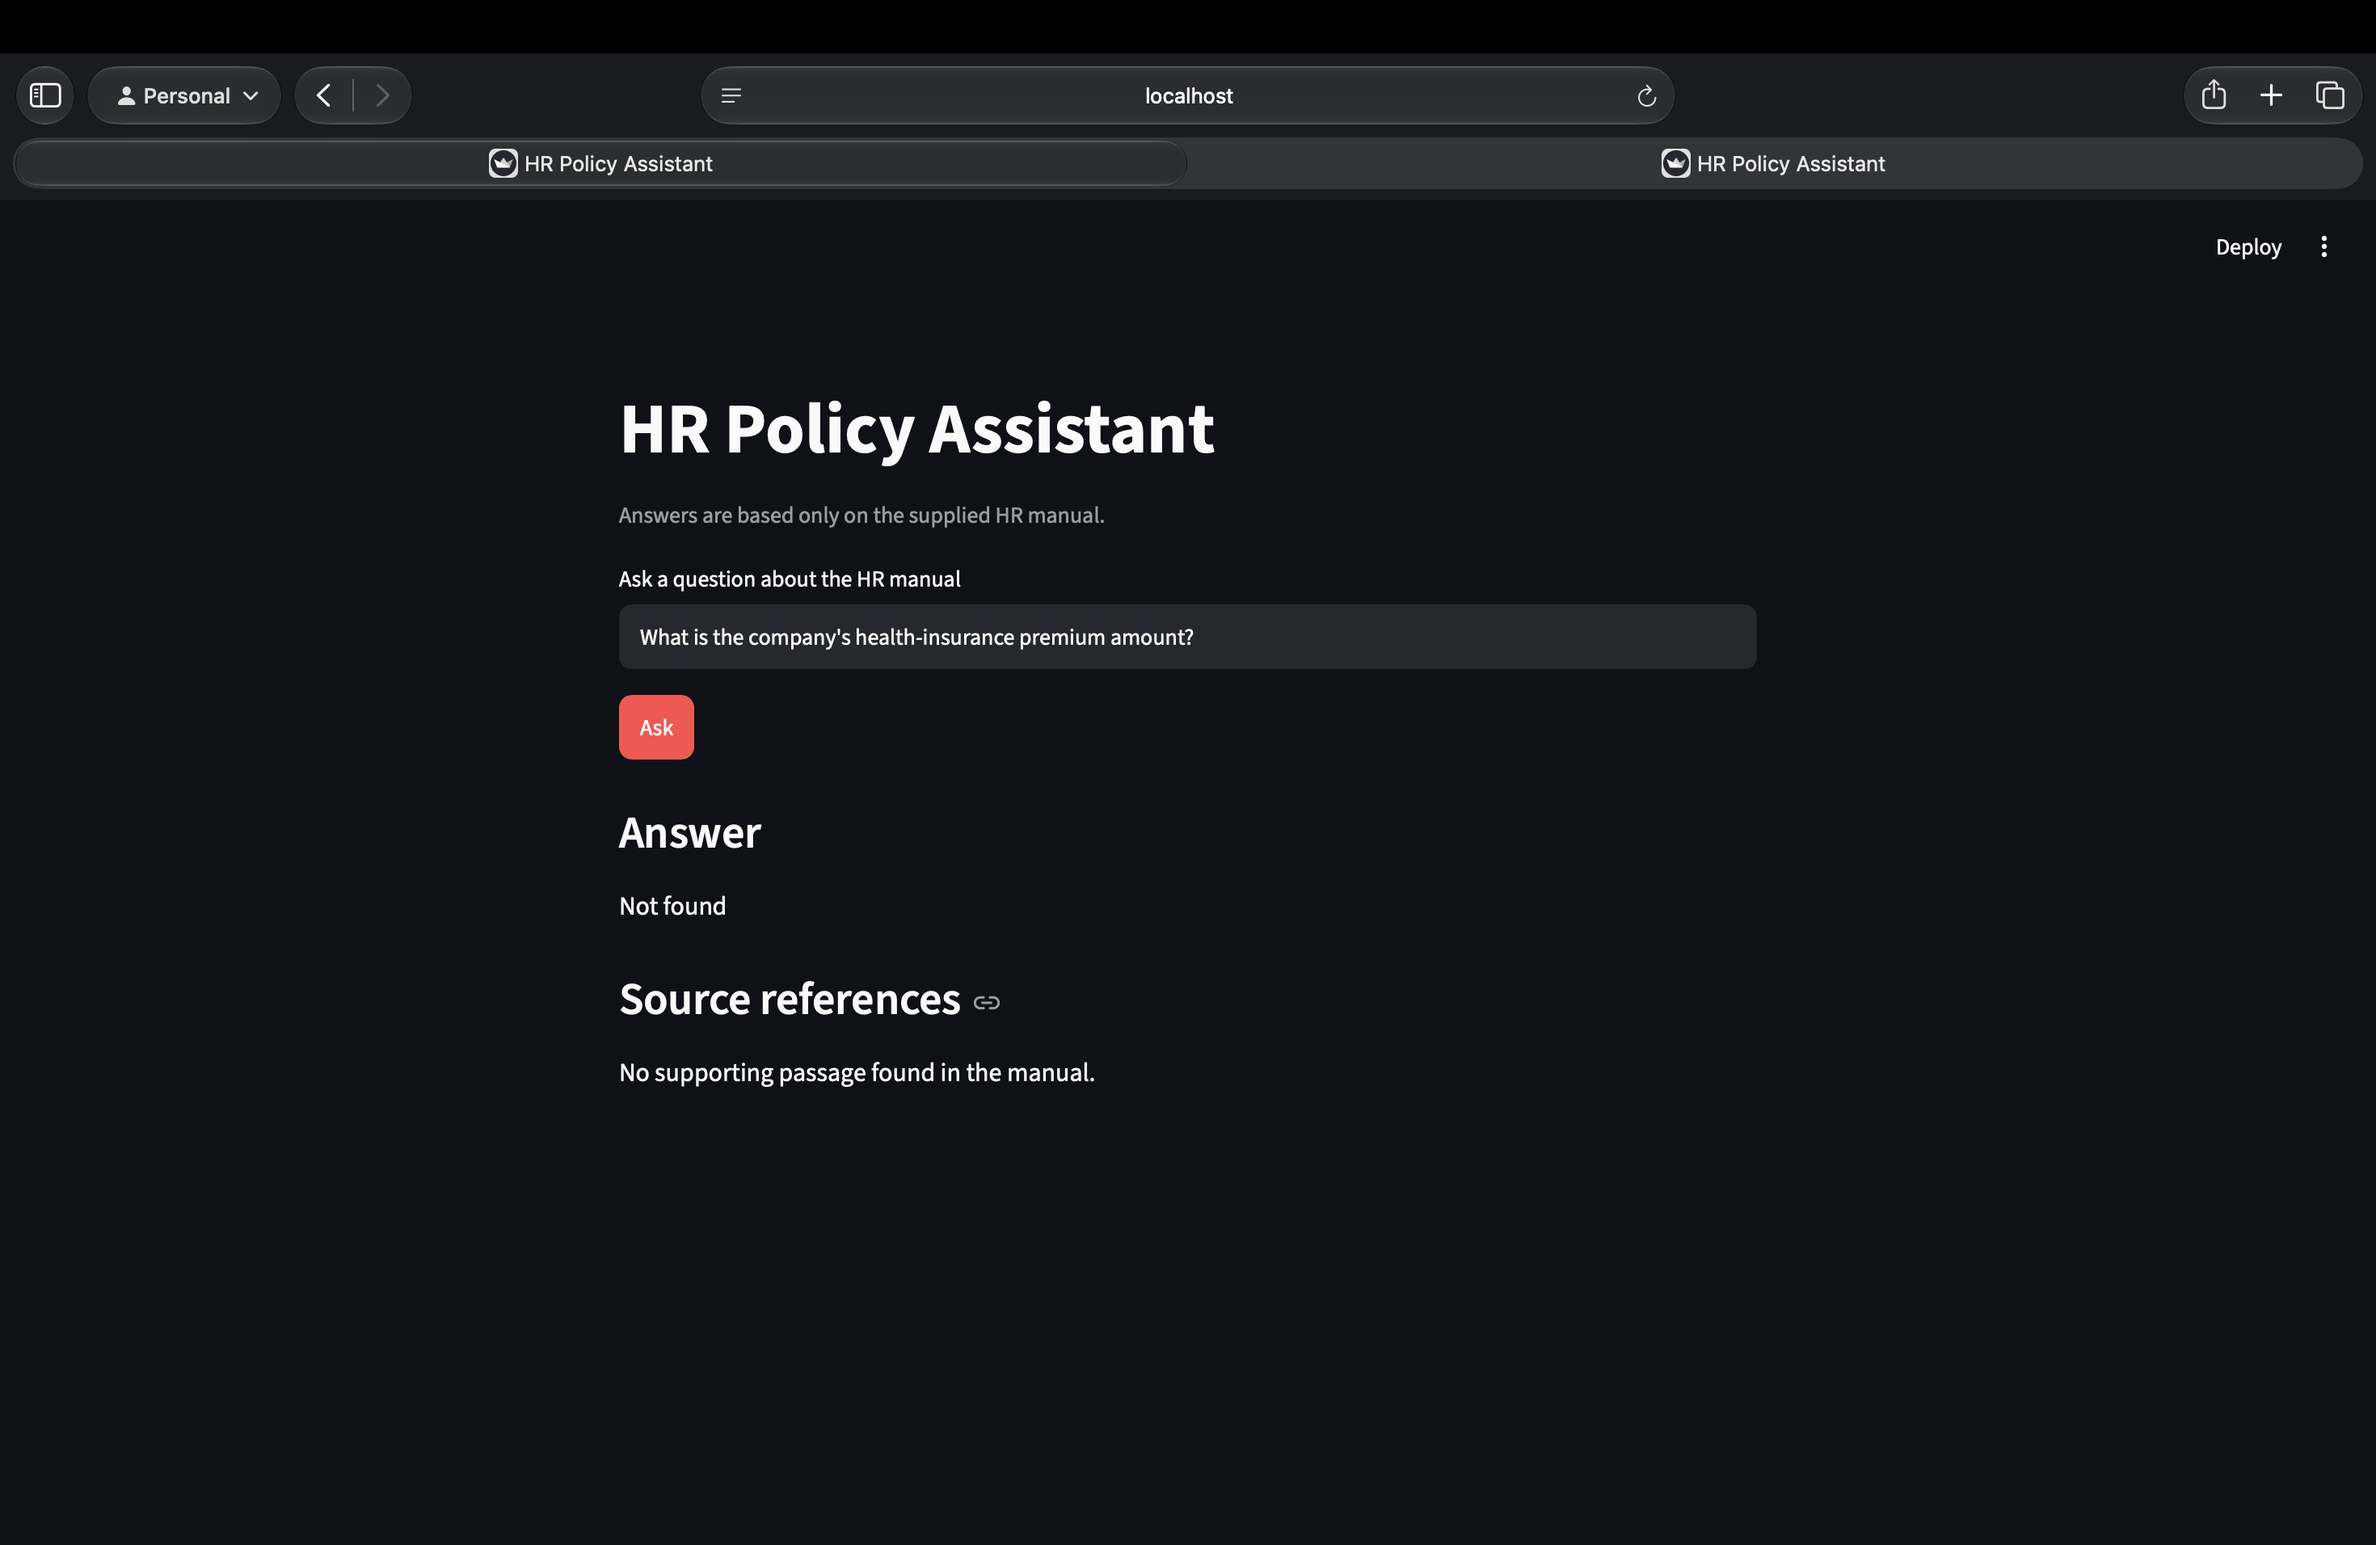
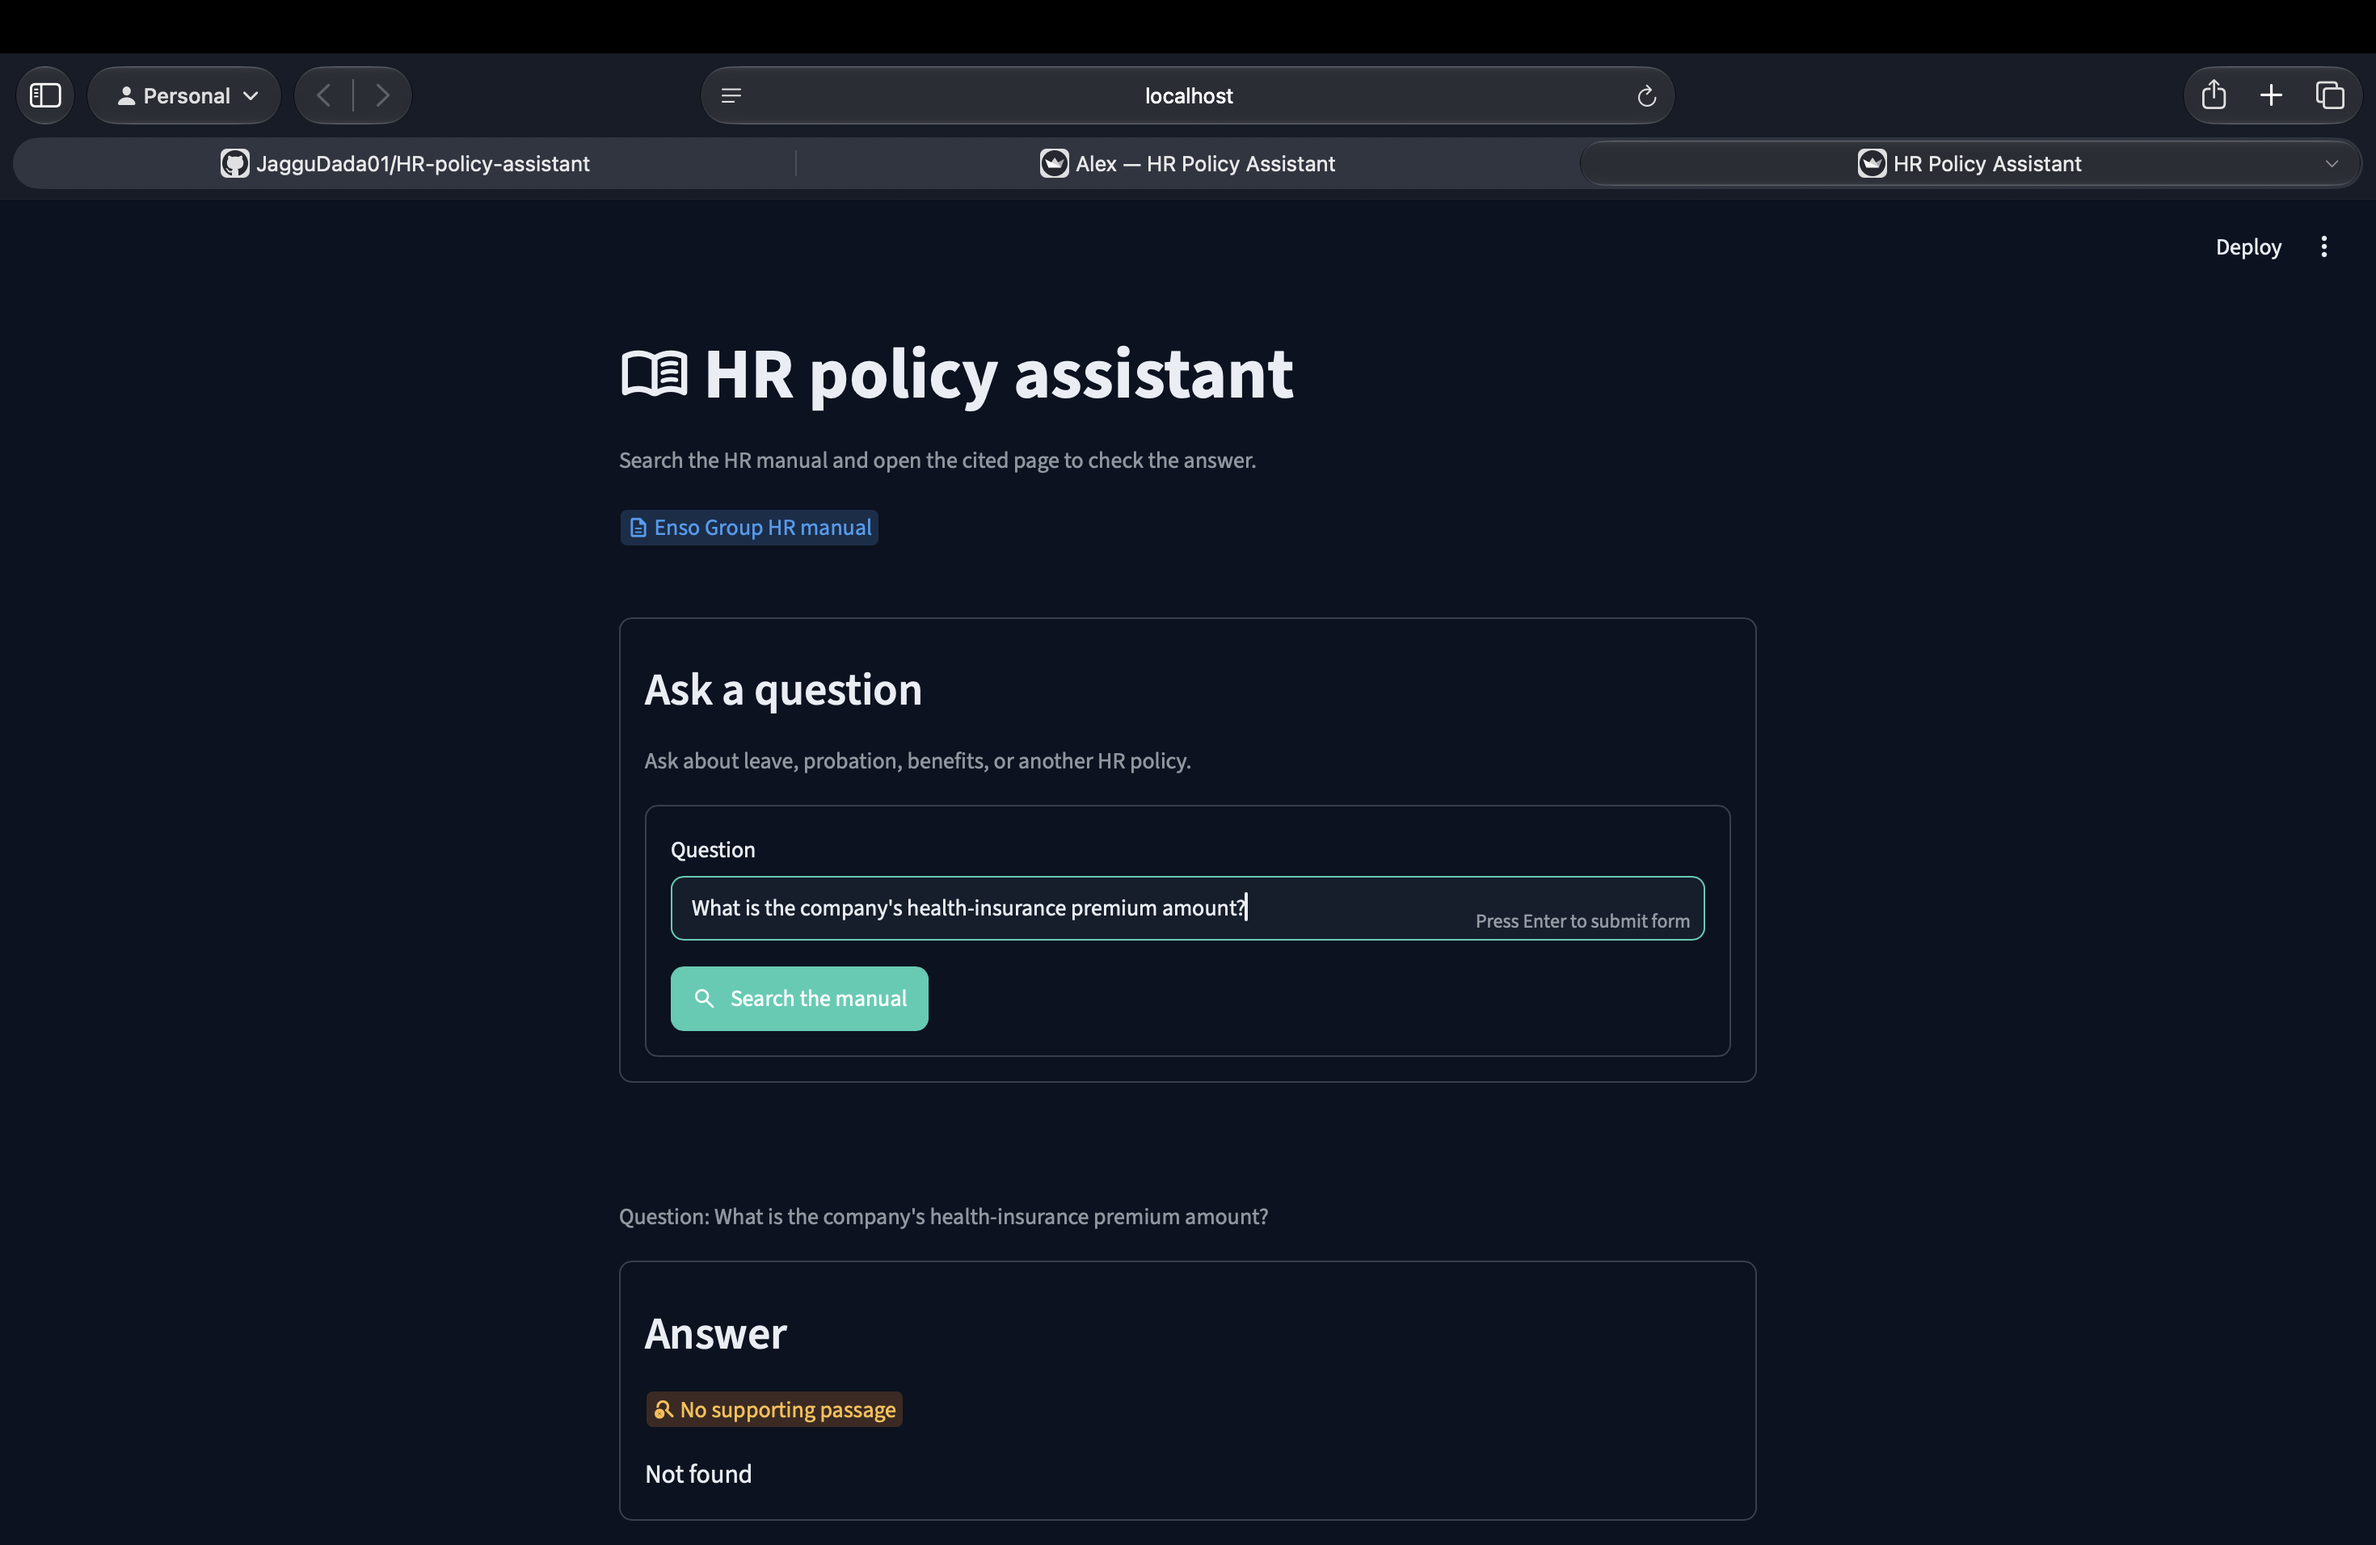
Update app source viewer and screenshots

diff --git a/app.py b/app.py
@@ -1,13 +1,21 @@
 """Streamlit interface for the HR manual question-answering system."""
+from importlib.util import find_spec
+from io import BytesIO
 from pathlib import Path
 
 import streamlit as st
+from pypdf import PdfReader, PdfWriter
+from streamlit.errors import StreamlitAPIException
 
+from src.hr_policy.config import PDF_PATH
 from src.hr_policy.qa import HRPolicyQA
 
-st.set_page_config(page_title="HR Policy Assistant", page_icon="📘", layout="centered")
-st.title("HR Policy Assistant")
-st.caption("Answers are based only on the supplied HR manual.")
+st.set_page_config(
+    page_title="HR Policy Assistant",
+    page_icon=":material/menu_book:",
+    layout="centered",
+)
+
 
 @st.cache_resource(max_entries=1)
 def get_qa(source_version):
@@ -20,21 +28,131 @@ def get_source_version():
     files = (module_dir / "qa.py", module_dir / "ingest.py")
     return tuple(path.stat().st_mtime_ns for path in files)
 
-question = st.text_input("Ask a question about the HR manual", placeholder="For example: How many days of Privilege Leave are allowed?")
-if st.button("Ask", type="primary", disabled=not question.strip()):
+
+@st.cache_data(show_spinner=False, max_entries=8)
+def get_pdf_page(page_number: int) -> bytes:
+    """Return a one-page PDF containing the requested physical page."""
+    reader = PdfReader(str(PDF_PATH))
+    if page_number < 1 or page_number > len(reader.pages):
+        raise ValueError(f"PDF page {page_number} is outside the manual.")
+    writer = PdfWriter()
+    writer.add_page(reader.pages[page_number - 1])
+    output = BytesIO()
+    writer.write(output)
+    return output.getvalue()
+
+
+st.title("HR policy assistant", icon=":material/menu_book:")
+st.caption("Search the HR manual and open the cited page to check the answer.")
+st.badge("Enso Group HR manual", icon=":material/description:", color="blue")
+st.space("small")
+
+with st.container(border=True):
+    st.subheader("Ask a question")
+    st.caption("Ask about leave, probation, benefits, or another HR policy.")
+    with st.form("question_form", clear_on_submit=False):
+        question = st.text_input(
+            "Question",
+            placeholder="Type a question about the manual",
+            key="question_input",
+        )
+        submitted = st.form_submit_button(
+            "Search the manual",
+            type="primary",
+            icon=":material/search:",
+        )
+
+if submitted and question.strip():
+    st.session_state["last_question"] = question.strip()
+    st.session_state["last_result"] = None
+    st.session_state["last_error"] = None
+    st.session_state["open_source_page"] = None
     try:
-        with st.spinner("Searching the HR manual…"):
+        with st.spinner("Searching the manual…"):
             result = get_qa(get_source_version()).ask(question.strip())
-        st.subheader("Answer")
-        st.write(result.answer)
-        st.subheader("Source references")
-        if result.sources:
-            for source in result.sources:
-                labels = [x for x in (source.get("annexure"), source.get("policy")) if x]
-                ref = ", ".join(labels) if labels else "HR Manual"
-                st.write(f"{ref} — PDF page {source['page_number']}")
-        else:
-            st.write("No supporting passage found in the manual.")
+        st.session_state["last_result"] = {
+            "answer": result.answer,
+            "sources": result.sources,
+        }
     except Exception as exc:
-        st.error(f"The HR manual index could not be loaded: {exc}")
-        st.info("Install the packages in requirements.txt, then run: python -m src.hr_policy.ingest")
+        st.session_state["last_error"] = str(exc)
+
+if st.session_state.get("last_error"):
+    st.error(f"The HR manual index could not be loaded: {st.session_state['last_error']}")
+    st.info("Install the packages in requirements.txt, then run: python -m src.hr_policy.ingest")
+
+last_result = st.session_state.get("last_result")
+if last_result:
+    st.space("medium")
+    st.caption(f"Question: {st.session_state.get('last_question', '')}")
+
+    with st.container(border=True):
+        st.subheader("Answer")
+        if last_result["answer"] == "Not found":
+            st.badge("No supporting passage", icon=":material/search_off:", color="orange")
+        else:
+            st.badge("Based on the manual", icon=":material/verified:", color="green")
+        st.write(last_result["answer"])
+
+    st.subheader("Source references")
+    sources = last_result.get("sources", [])
+    if sources:
+        for index, source in enumerate(sources):
+            annexure = source.get("annexure", "")
+            policy = source.get("policy", "")
+            page_number = int(source["page_number"])
+            section = ", ".join(part for part in (annexure, policy) if part) or "HR Manual"
+            with st.container(border=True):
+                source_col, action_col = st.columns([3, 1], vertical_alignment="center")
+                source_col.markdown(f"**{section}**")
+                source_col.caption(f"PDF page {page_number}")
+                if action_col.button(
+                    f"View page {page_number}",
+                    key=f"view_source_{index}_{page_number}",
+                    icon=":material/picture_as_pdf:",
+                    width="stretch",
+                ):
+                    st.session_state["open_source_page"] = page_number
+    else:
+        st.caption("No supporting passage was found in the manual.")
+
+page_to_view = st.session_state.get("open_source_page")
+if page_to_view:
+    st.space("small")
+    with st.container(border=True):
+        heading_col, close_col = st.columns([4, 1], vertical_alignment="center")
+        heading_col.subheader(f"Source page {page_to_view}")
+        if close_col.button("Close", key="close_source_page", icon=":material/close:"):
+            st.session_state["open_source_page"] = None
+        else:
+            try:
+                page_pdf = get_pdf_page(int(page_to_view))
+            except Exception as exc:
+                st.error(f"Could not open PDF page {page_to_view}: {exc}")
+            else:
+                viewer_available = hasattr(st, "pdf") and find_spec("streamlit_pdf") is not None
+                viewer_error = None
+                if viewer_available:
+                    try:
+                        st.pdf(
+                            page_pdf,
+                            height=720,
+                            key=f"source_pdf_{page_to_view}",
+                            alt=f"HR manual PDF page {page_to_view}",
+                        )
+                    except StreamlitAPIException as exc:
+                        # A server that was running before streamlit-pdf was installed
+                        # can have stale component registration until it is restarted.
+                        viewer_error = exc
+                else:
+                    viewer_error = "The optional streamlit-pdf viewer is not installed."
+
+                if viewer_error:
+                    st.info("The inline PDF viewer is unavailable. Restart Streamlit after installing dependencies to enable it.")
+                    st.download_button(
+                        "Download this PDF page",
+                        data=page_pdf,
+                        file_name=f"hr_manual_page_{page_to_view}.pdf",
+                        mime="application/pdf",
+                        icon=":material/download:",
+                    )

diff --git a/README.md b/README.md
@@ -18,7 +18,7 @@ A local question-answering application for Enso Group's HR manual. **Repository:
 | Chunking | LangChain `RecursiveCharacterTextSplitter` | Split pages into 900-character chunks with 150-character overlap |
 | Embeddings | Sentence Transformers `all-MiniLM-L6-v2` via `HuggingFaceEmbeddings` | Create local semantic vectors |
 | Vector database | ChromaDB with LangChain Chroma integration | Persistent vector storage and similarity search |
-| User interface | Streamlit | Local web interface for questions and sourced answers |
+| User interface | Streamlit | Interactive local web interface with a cited-page PDF viewer |
 
 ## RAG workflow
 
@@ -48,6 +48,8 @@ HR-policy-assis/
 ├── requirements.txt               # Python dependencies
 ├── README.md                      # Project and run instructions
 ├── .gitignore                     # Excludes secrets and generated files
+├── .streamlit/
+│   └── config.toml                # App theme
 ├── data/
 │   ├── source/
 │   │   └── hr_manual.pdf          # Source HR manual
@@ -90,7 +92,7 @@ Start Streamlit in the project folder:
 streamlit run app.py
 ```
 
-Open the local URL printed by Streamlit, usually <http://localhost:8501>. Enter a question and select **Ask**.
+Open the local URL printed by Streamlit, usually <http://localhost:8501>. Enter a question and select **Search the manual**. Each source reference has a **View page** button that opens that exact PDF page in the app. The PDF viewer is installed by `streamlit[pdf]` in `requirements.txt`. Restart Streamlit after installing dependencies so it registers the viewer; if it is unavailable, the app offers a one-page PDF download instead.
 
 ## Test questions and observed answers
 
@@ -108,39 +110,45 @@ These results were checked against the manual and captured from the running Stre
 
 ## Application screenshots
 
-The screenshots below show the entered question and the result rendered by the local application.
+These screenshots were captured from the updated local app. They show both the answer and, where included, the **View page** action opening the cited PDF page.
 
 <details>
-<summary>Question 1 — Privilege Leave</summary>
+<summary>Question 1 — Privilege Leave: 12 days, page 60</summary>
 
-![Streamlit result for the Privilege Leave question](screenshots/q1-privilege-leave.png)
+![Privilege Leave answer in the updated app](screenshots/q1-privilege-leave-answer.png)
+
+![Privilege Leave source page 60 open in the PDF viewer](screenshots/q1-privilege-leave-page-60.png)
 
 </details>
 
 <details>
-<summary>Question 2 — Probation period</summary>
+<summary>Question 2 — Probation period: 3 months, page 42</summary>
 
-![Streamlit result for the probation question](screenshots/q2-probation-period.png)
+![Probation answer in the updated app](screenshots/q2-probation-answer.png)
 
-</details>
-
-<details>
-<summary>Question 3 — Health-insurance premium</summary>
-
-![Streamlit result for the health-insurance premium question](screenshots/q3-health-insurance-premium.png)
+![Probation source page 42 open in the PDF viewer](screenshots/q2-probation-page-42.png)
 
 </details>
 
 <details>
-<summary>Question 4 — GST rate</summary>
+<summary>Question 3 — Health-insurance premium: Not found</summary>
 
-![Streamlit result for the GST question](screenshots/q4-gst-rate.png)
+![Unsupported insurance premium question in the updated app](screenshots/q3-health-insurance-premium.png)
 
 </details>
 
 <details>
-<summary>Question 5 — Maternity leave</summary>
+<summary>Question 4 — GST rate: Not found</summary>
 
-![Streamlit result for the maternity leave question](screenshots/q5-maternity-leave.png)
+![Unsupported GST question in the updated app](screenshots/q4-gst-rate.png)
+
+</details>
+
+<details>
+<summary>Question 5 — Maternity leave: 12 weeks (90 days), page 62</summary>
+
+![Maternity leave answer in the updated app](screenshots/q5-maternity-answer.png)
+
+![Maternity leave source page 62 open in the PDF viewer](screenshots/q5-maternity-page-62.png)
 
 </details>
